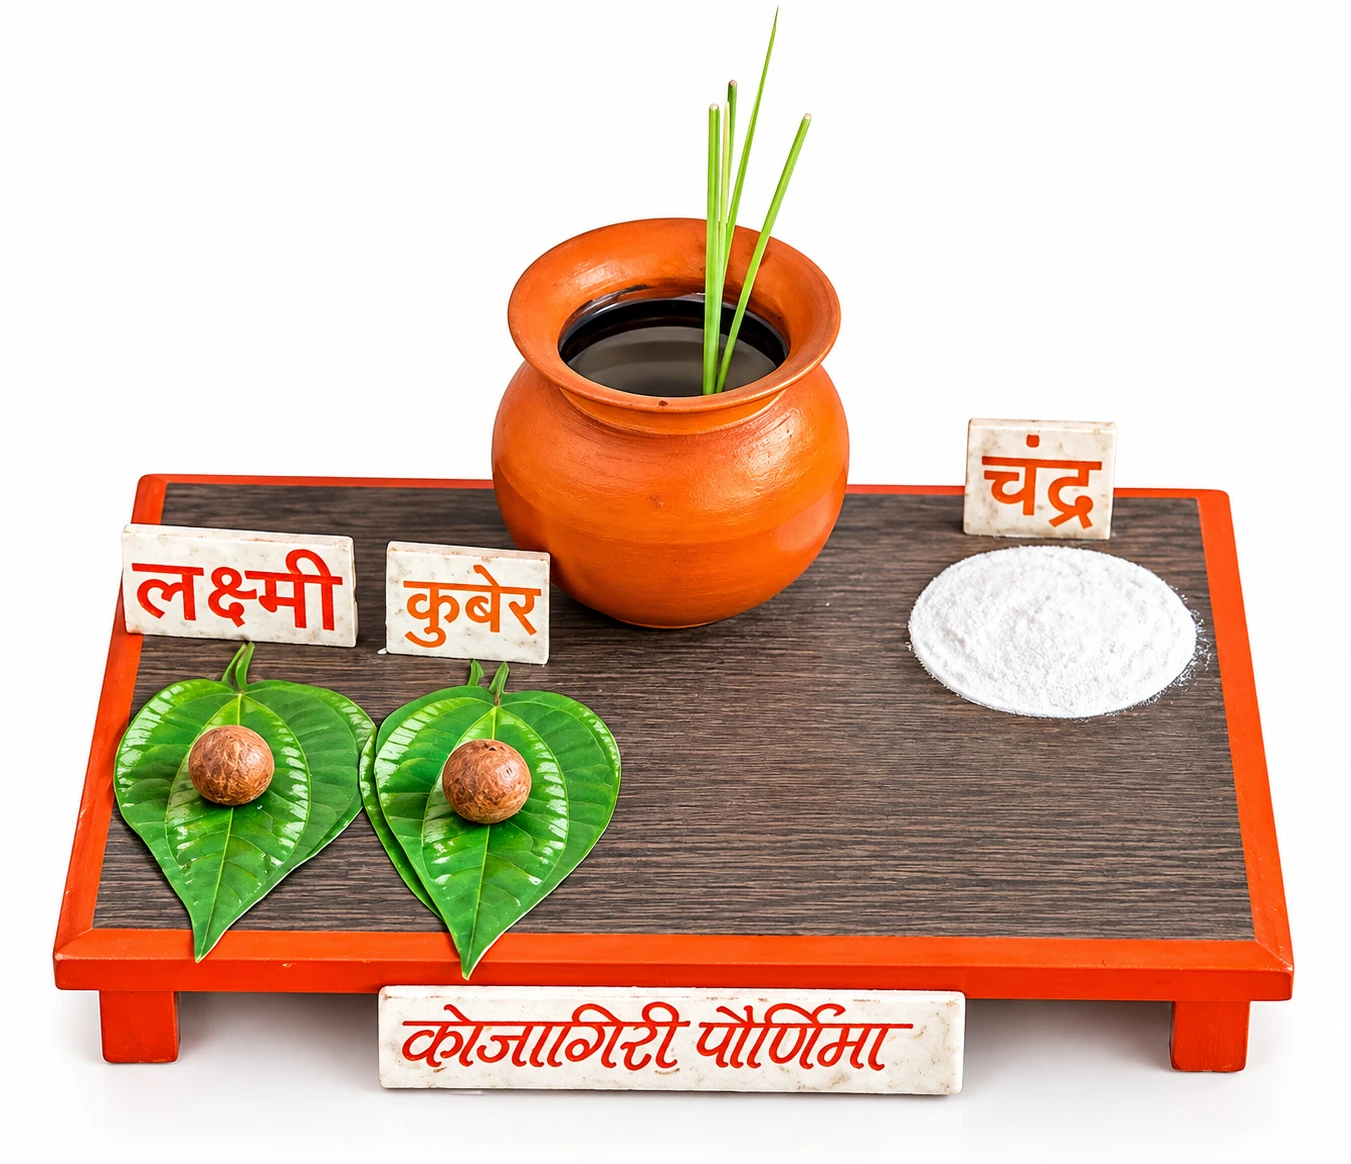
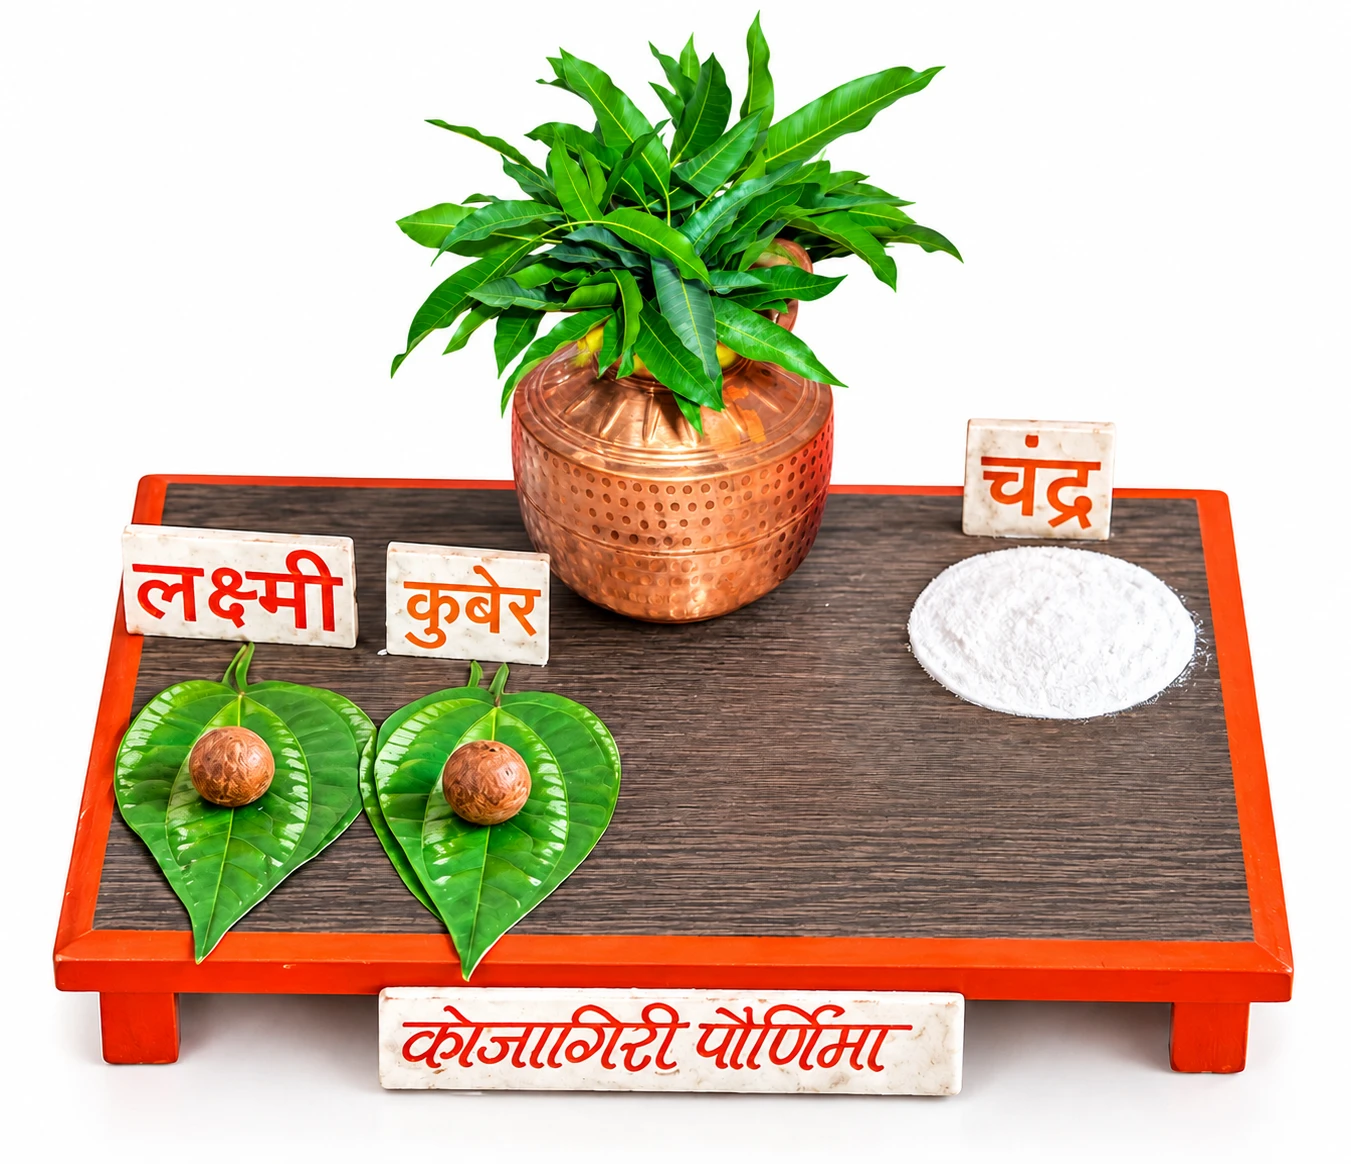
कोजागरी पौर्णिमा फोटो परत बदलला — तांब्याचा कलश व आंब्याची पाने असलेला फोटो
Claude-Session: https://claude.ai/code/session_01TqV3C5SpsQSXCmkhGwRKbq

diff --git a/index.html b/index.html
@@ -3135,7 +3135,7 @@ footer{text-align:center;margin-top:30px;font-size:14px;color:var(--shai-soft);l
         <div class="accbody">
           <p>पौर्णिमेची रात्र, चंद्राची रात्र सर्वांना आनंद देते. आश्विन शु. पौर्णिमा म्हणजे 'कोजागरी पौर्णिमा' अशा या रात्री शरदाच्या चांदण्यात जे लोक आनंदात रमत खेळत जागरण करतात, त्यांच्यावर देव प्रसन्न होतात असा समज आहे.</p>
           <p>हा उत्सव आश्विन शु. पौर्णिमा या दिवशी रात्री ठीक १२ ते १२.३९ या ३९ मिनिटात करायचा असतो. भगवान इंद्र, लक्ष्मी, चंद्र, कुबेर यांची वर्षातून सेवा करण्याची हीच एकमेव वेळ असते. शक्यतो हा उत्सव प्रत्येक सेवेकऱ्याने आपल्या घरीच करावा. उपरोक्त वरील देवता या दिवशी पृथ्वीतलावर आशीर्वाद देण्यासाठी येत असतात. त्यांना अमृताचा (दूध) नैवेद्य करावा.</p>
-          <img src="assets/images/kojagiri-purnima-diagram.webp" alt="कोजागरी पौर्णिमा — दुधाने भरलेला कलश, लक्ष्मी व कुबेर यांच्या पूजेची मांडणी, चंद्राला अर्घ्य" style="width:100%;max-width:360px;display:block;margin:0 auto;border-radius:12px">
+          <img src="assets/images/kojagiri-purnima-diagram.webp" alt="कोजागरी पौर्णिमा — तांब्याचा कलश व आंब्याची पाने, लक्ष्मी व कुबेर यांच्या पूजेची मांडणी, चंद्राला अर्घ्य" style="width:100%;max-width:360px;display:block;margin:0 auto;border-radius:12px">
           <p><b>❋ पूजाविधी मांडणी :</b> मांडणी करतांना एका पाटावर किंवा चौरंगावर —<br>
           १. लक्ष्मीचे प्रतीक म्हणून विड्याच्या जोड पानावर श्री गुरुपीठ सिध्द श्रीयंत्र (श्रीचक्र यंत्र) (श्रीयंत्र कागदी असेल तरी चालेल) ठेवावे.<br>
           २. विड्याच्या जोडपानावर कुबेराचे प्रतीक म्हणून श्री गुरुपीठ सिध्द कुबेर यंत्र ठेवावे. (श्रीयंत्र व कुबेर यंत्र नसल्यास सुपारी वापरावी.)<br>
